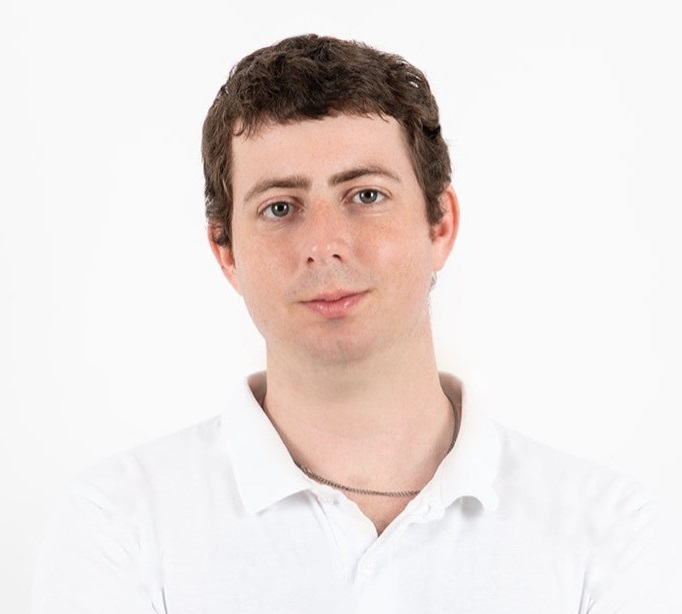
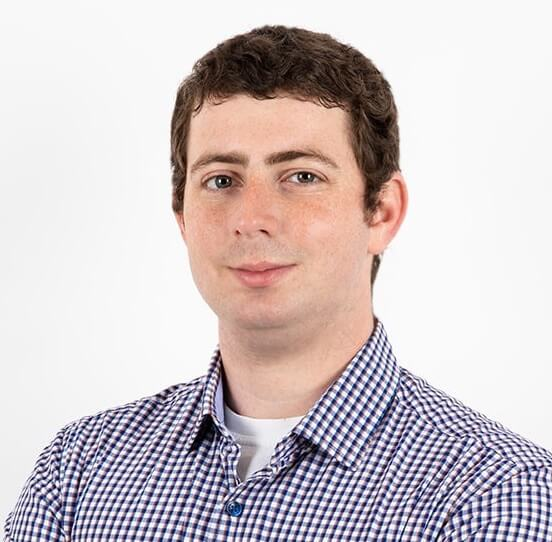
add new blog post

diff --git a/blog/blog-post-16.html b/blog/blog-post-16.html
@@ -1,0 +1,40 @@
+<h1>
+[Technical Post] Novel Method For Using Unsupervised Deep Learning for PDE-based Problems
+</h1>
+<hr class="publications-hr">
+<p>
+Recently, a beginning of a series about the connection between deep learning (DL) and partial differential equations (PDE) is emerging with two papers by <a href="https://www.linkedin.com/in/leah-bar-5b396718/?originalSubdomain=il" title="Leah Bar">Dr. Leah Bar</a> and <a href="http://www.math.tau.ac.il/~sochen/" title="Nir Sochen">Prof. Nir Sochen</a> entitled <a href="https://arxiv.org/abs/1904.05417" title="DL-PDE connection paper 1">"Unsupervised Deep Learning Algorithm for PDE-based Forward and Inverse Problem"</a> and <a href="https://epubs.siam.org/doi/abs/10.1137/20M1332827" title="DL-PDE connection paper 2">"Strong Solutions for PDE-Based Tomography by Unsupervised Learning "</a>. 
+</p>
+<p>
+In these papers, the authors use <a href="https://www.sciencedirect.com/science/article/pii/B9780128028063000075" title="unsupervised DL summery">unsupervised deep learning</a> in order to find the solution for a given 2-dimensional spatial and time-dimension PDE problem. The solution of this process is mathematically defined by a mapping function from the spatial space (e.g. (x1,y1) points) to their corresponding location (x2,y2) given some point in time (t). From a technical perspective, avoiding as much mathematics as possible, we would focus on the main ideas proposed in this work. 
+</p>
+<h4>Arcitecture</h4>
+<p>
+The arcitecture of the nural network is quite simple relative to the state-of-the-art arcitectures in <a href="https://towardsdatascience.com/review-resnext-1st-runner-up-of-ilsvrc-2016-image-classification-15d7f17b42ac" title="CV DL models size compare">computer vision</a>, <a href="https://venturebeat.com/2020/05/29/openai-debuts-gigantic-gpt-3-language-model-with-175-billion-parameters/" title="gdp 3 size">NLP</a>, etc. It consists of a few <b>fully connected</b> layers with <b>tanh</b> activation and <b>linear sum</b> in the last layer.  A schematical view of the arcitecture are shown below.
+</p>
+<div style="text-align: center;">
+<img src="/img/blog/dl_pde_architecture.png" style="text-align: center; max-width: 600px; max-height: 300px; " alt="Network architecture: the point (x, y) in R^2 serves as an input and U as the out"/>
+</div>
+<h4>Training</h4>
+<p>
+In order to train the DL model to satisfy the PDE with the boundary conditions, the authors defined a new cost function to minimize. The cost function uses two types of distances to handle the complexity of well fit the inner space of the domain and the boundary of the domain. In the first term, the authors used <a href="https://en.wikipedia.org/wiki/Lp_space" title="Lp space">L2</a> (euclidean distance) with the L_{inf}. The second term is important since the L2 term only forces the equation up to a set of zero measures, while the L_{inf} term takes care of possible outliers. In addition to these, another term is used to minimize the error associated with the boundary condition and as a result, imposes boundary conditions in the model.
+</p>
+<p>
+This cost function holds a few promises. First, the solutions are smooth analytic functions that are extremely useable in later analysis. Second, the training procedure is mesh-free which means it is easy to adapt for multiple numerical methods such as finite distances, finite elements, finite volume, and others.  
+</p>
+<p>
+This method considered unsupervised learning as the results are untagged, nevertheless is obtained by first calculating the PDE's results either numerically or analytically.
+</p>
+<h4>Summery</h4>
+<p>
+In the papers, the authors show usage of this method in both forward and inverse problem settings, presenting its robustness and obtain promising results. 
+</p>
+<p>
+A very old idea in mathematics is the approximation of complex functions using simple functions. One can mention famous names as Taylor and Fourier. Another example comes from linear algebra with the idea of eigenvalues and the list is going on. The authors take advantage of this idea as deep networks by their nature use compositions of simple functions such as matrix multiplication and non-linear activations like sigmoid or tanh. This structure enables the approximation of an arbitrary function. Specifically, deep networks can use a relatively large number of degrees of freedom which in turn enables the expressibility of complex functions (such as PDEs). 
+</p>
+<p>
+On a personal note, I hope to see more paper combining more state-of-the-art methods from computer science and mathematics combined to provide new ways to solve classical questions in both areas and as so operating as a bridge in these similar but yet so different areas. Both papers presented in this post require a deep understanding of both DL and PDEs and may be hard for audience not familiar with these subjects. Nevertheless, further reading is very recommended.  
+</p>
+<p>
+<small>* All images in this blog post have been taken from the papers themself </small>
+<p>

diff --git a/blog/blog-post-15.html b/blog/blog-post-15.html
@@ -280,5 +280,5 @@ By the way, if you would like some help with the plotting for your AI, or any ot
 </p>
 
 <p>
-<small>* All images in this blog post has been taken from: www.machinelearningplus.com</small>
+<small>* All images in this blog post have been taken from: www.machinelearningplus.com</small>
 <p>

diff --git a/css/about.css b/css/about.css
@@ -315,6 +315,8 @@ line-height: 200%;
   float: right;
   margin-right: 60px;
   margin-left: 64px;
+  max-height: 300px;
+  max-width: 60%;
 }
 
 .bio-text {
